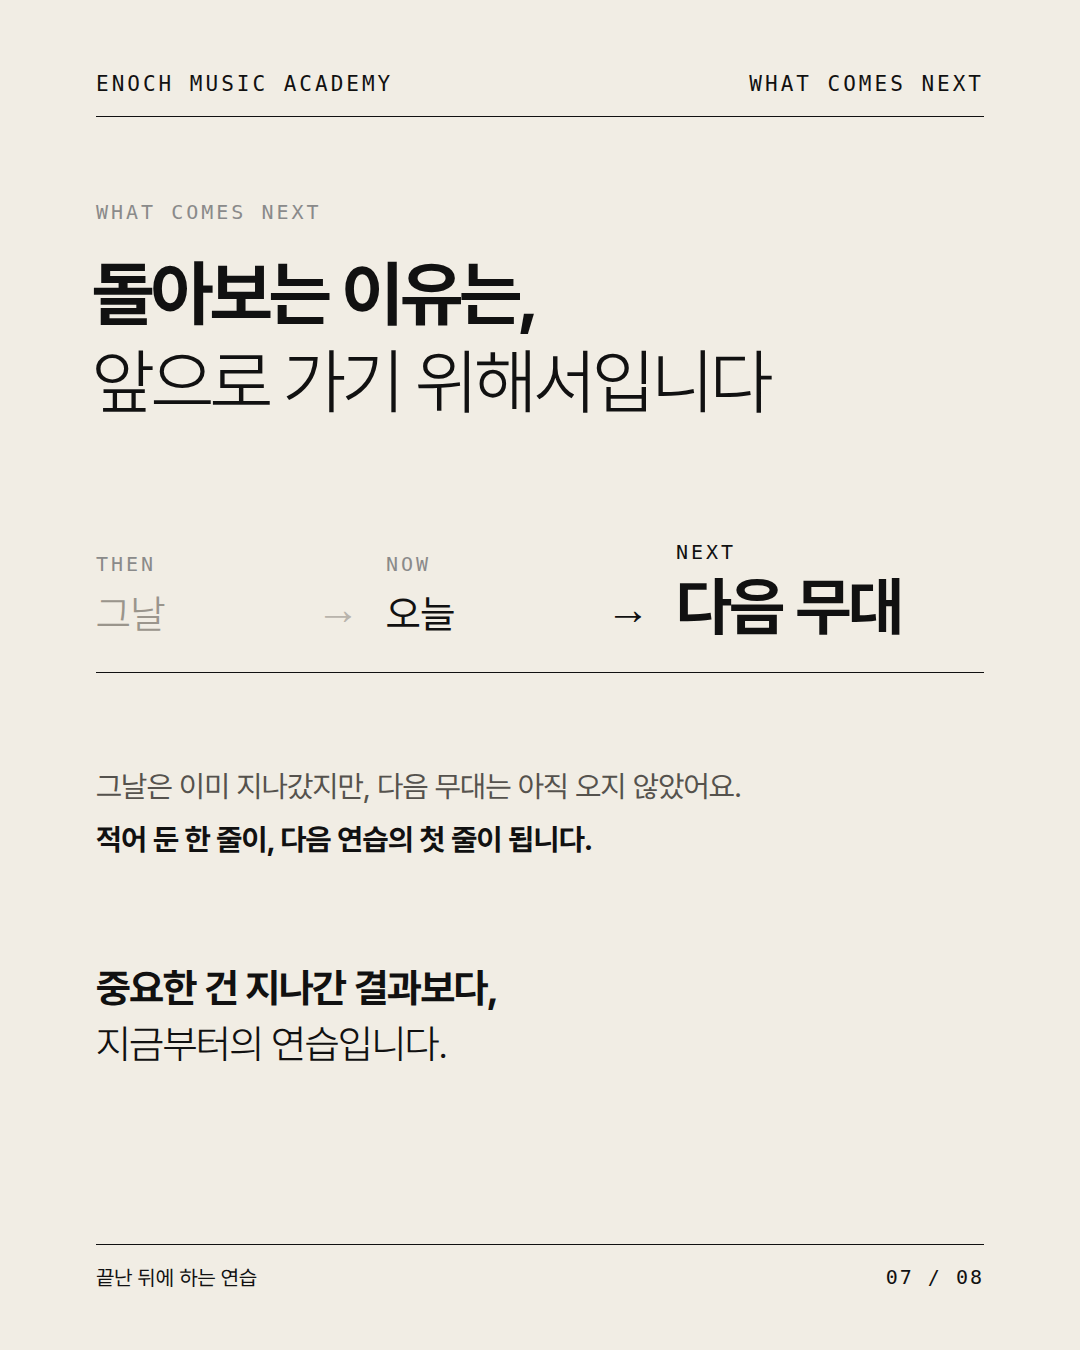
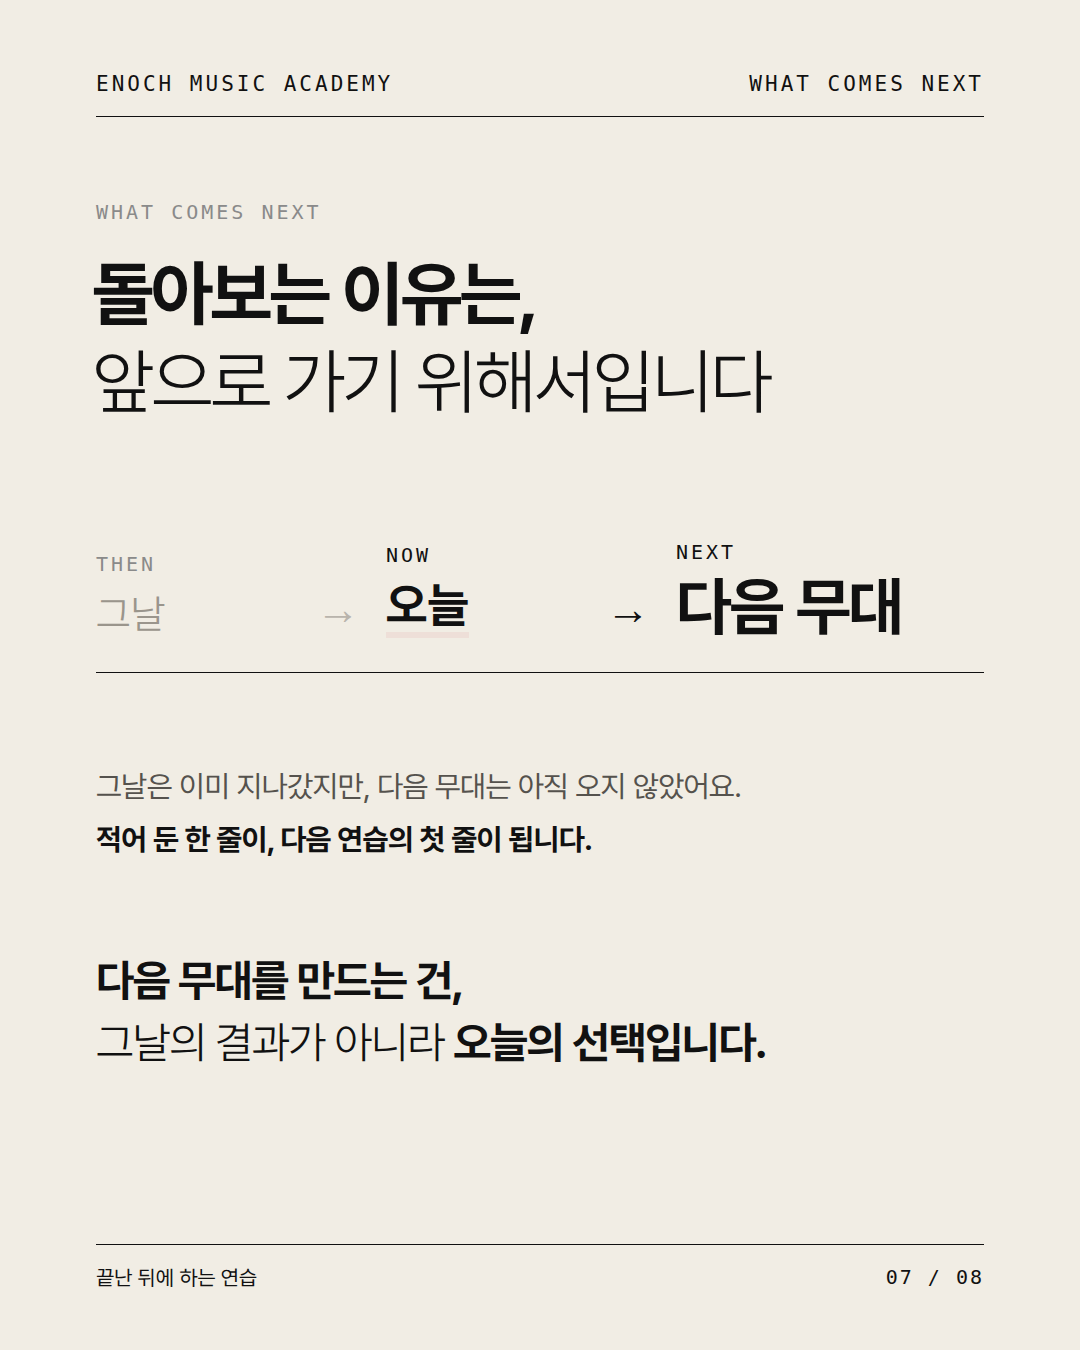
끝난 뒤에 하는 연습: 7장 '오늘의 선택' 강조
Claude-Session: https://claude.ai/code/session_01HGbZvgMeYrbU7mY8bwfjyb

Changed region(s): [[0.0917, 0.7156, 0.7028, 0.8089], [0.3361, 0.4044, 0.4278, 0.4667]]

diff --git a/output/노트_복기/deck.html b/output/노트_복기/deck.html
@@ -79,12 +79,12 @@
 <div class="a" style="left:96px;right:96px;top:540px;display:grid;grid-template-columns:1fr 70px 1fr 70px 1.4fr;align-items:end;border-bottom:1.5px solid #111;padding-bottom:34px">
 <div><div class="k">Then</div><div style="font-size:40px;font-weight:300;color:#9A958C;margin-top:14px">그날</div></div>
 <div style="font-family:var(--en);font-size:44px;color:#B9B4AC;padding-bottom:4px">→</div>
-<div><div class="k">Now</div><div style="font-size:40px;font-weight:400;margin-top:14px">오늘</div></div>
+<div><div class="k" style="color:#111">Now</div><div style="font-size:48px;font-weight:700;margin-top:12px;border-bottom:6px solid #EEDFD8;display:inline-block;line-height:1.1">오늘</div></div>
 <div style="font-family:var(--en);font-size:44px;color:#111;padding-bottom:4px">→</div>
 <div><div class="k" style="color:#111">Next</div><div style="font-size:64px;font-weight:700;letter-spacing:-2px;margin-top:10px;line-height:1">다음 무대</div></div>
 </div>
 <div class="p a" style="left:96px;right:96px;top:760px">그날은 이미 지나갔지만, 다음 무대는 아직 오지 않았어요.<br><b>적어 둔 한 줄이, 다음 연습의 첫 줄이 됩니다.</b></div>
-<div class="a" style="left:96px;right:96px;top:960px;font-size:40px;font-weight:700;letter-spacing:-1.2px;line-height:1.4">중요한 건 지나간 결과보다,<br><span style="font-weight:300">지금부터의 연습입니다.</span></div>
+<div class="a" style="left:96px;right:96px;top:950px;font-size:44px;font-weight:700;letter-spacing:-1.4px;line-height:1.4">다음 무대를 만드는 건,<br><span style="font-weight:300">그날의 결과가 아니라 </span>오늘의 선택입니다.</div>
 <div class="ft"><span>끝난 뒤에 하는 연습</span><span>07 / 08</span></div></section><section class="s dark" id="c8"><div class="hd"><span>ENOCH MUSIC ACADEMY</span><span>THE ENOCH WAY</span></div>
 <div class="a" style="left:92px;top:150px;font-family:var(--en);font-weight:700;font-size:240px;letter-spacing:-8px;color:#2A2825;line-height:1">ENOCH</div>
 <div class="h a" style="left:92px;top:450px">그날의 무대도,<br><span style="font-weight:300;color:#EEDFD8">나의 소리였습니다.</span></div>

diff --git a/output/노트_복기/gen.py b/output/노트_복기/gen.py
@@ -103,12 +103,12 @@ S.append(f"""<section class="s" id="c7">{HD("WHAT COMES NEXT")}
 <div class="a" style="left:96px;right:96px;top:540px;display:grid;grid-template-columns:1fr 70px 1fr 70px 1.4fr;align-items:end;border-bottom:1.5px solid #111;padding-bottom:34px">
 <div><div class="k">Then</div><div style="font-size:40px;font-weight:300;color:#9A958C;margin-top:14px">그날</div></div>
 <div style="font-family:var(--en);font-size:44px;color:#B9B4AC;padding-bottom:4px">→</div>
-<div><div class="k">Now</div><div style="font-size:40px;font-weight:400;margin-top:14px">오늘</div></div>
+<div><div class="k" style="color:#111">Now</div><div style="font-size:48px;font-weight:700;margin-top:12px;border-bottom:6px solid #EEDFD8;display:inline-block;line-height:1.1">오늘</div></div>
 <div style="font-family:var(--en);font-size:44px;color:#111;padding-bottom:4px">→</div>
 <div><div class="k" style="color:#111">Next</div><div style="font-size:64px;font-weight:700;letter-spacing:-2px;margin-top:10px;line-height:1">다음 무대</div></div>
 </div>
 <div class="p a" style="left:96px;right:96px;top:760px">그날은 이미 지나갔지만, 다음 무대는 아직 오지 않았어요.<br><b>적어 둔 한 줄이, 다음 연습의 첫 줄이 됩니다.</b></div>
-<div class="a" style="left:96px;right:96px;top:960px;font-size:40px;font-weight:700;letter-spacing:-1.2px;line-height:1.4">중요한 건 지나간 결과보다,<br><span style="font-weight:300">지금부터의 연습입니다.</span></div>
+<div class="a" style="left:96px;right:96px;top:950px;font-size:44px;font-weight:700;letter-spacing:-1.4px;line-height:1.4">다음 무대를 만드는 건,<br><span style="font-weight:300">그날의 결과가 아니라 </span>오늘의 선택입니다.</div>
 {FT(7)}</section>""")
 # 08 마무리
 S.append(f"""<section class="s dark" id="c8">{HD("THE ENOCH WAY")}

diff --git a/output/노트_복기/caption.md b/output/노트_복기/caption.md
@@ -4,7 +4,7 @@
 
 결과는 이미 정해졌어도, 그날을 어떻게 기억할지는 아직 내가 정할 수 있습니다. 복기는 나를 혼내는 시간이 아니라 이해하는 시간이에요. 그날 가장 떨렸던 순간, 그래도 해낸 것 하나, 다음 무대의 나에게 해 주고 싶은 말. 마음이 조금 가라앉았을 때 적어 보세요.
 
-돌아보는 이유는, 앞으로 가기 위해서입니다. 중요한 건 지나간 결과보다 지금부터의 연습이에요. 적어 둔 한 줄이 다음 연습의 첫 줄이 됩니다.
+돌아보는 이유는, 앞으로 가기 위해서입니다. 다음 무대를 만드는 건 그날의 결과가 아니라, 오늘의 선택이거든요. 적어 둔 한 줄이 다음 연습의 첫 줄이 됩니다.
 
 진도보다 이해를 먼저 봅니다. 그날의 무대도, 나의 소리였습니다.
 
